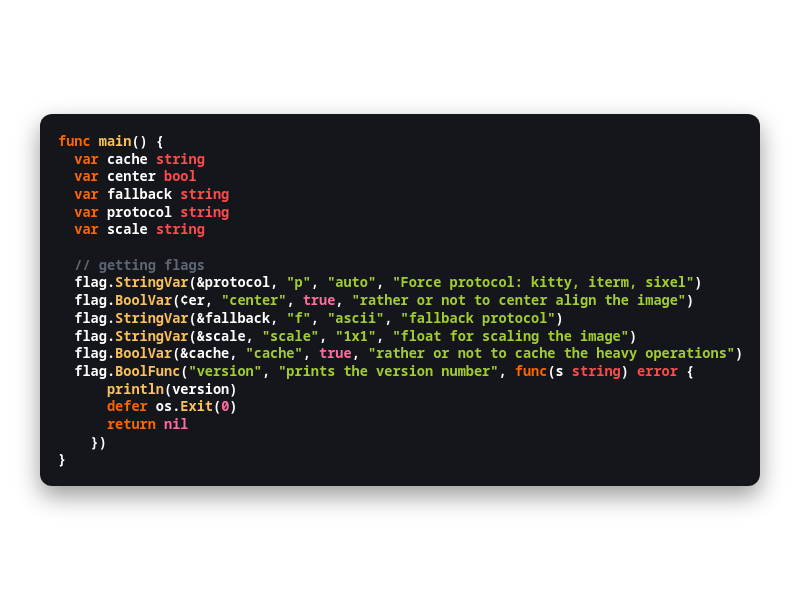
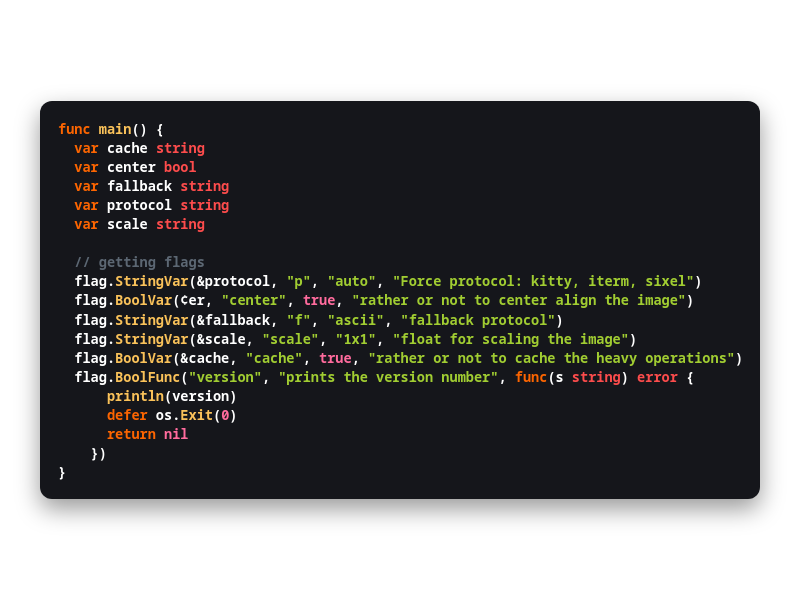
fix: improving the look of the thumbnails

diff --git a/dogs/autumn/code_preview.html b/dogs/autumn/code_preview.html
@@ -49,7 +49,7 @@
     pre {
       margin: 0;
       font-size: 1.7vw;
-      line-height: 1.3;
+      line-height: 1.4;
       white-space: pre;
     }
 
